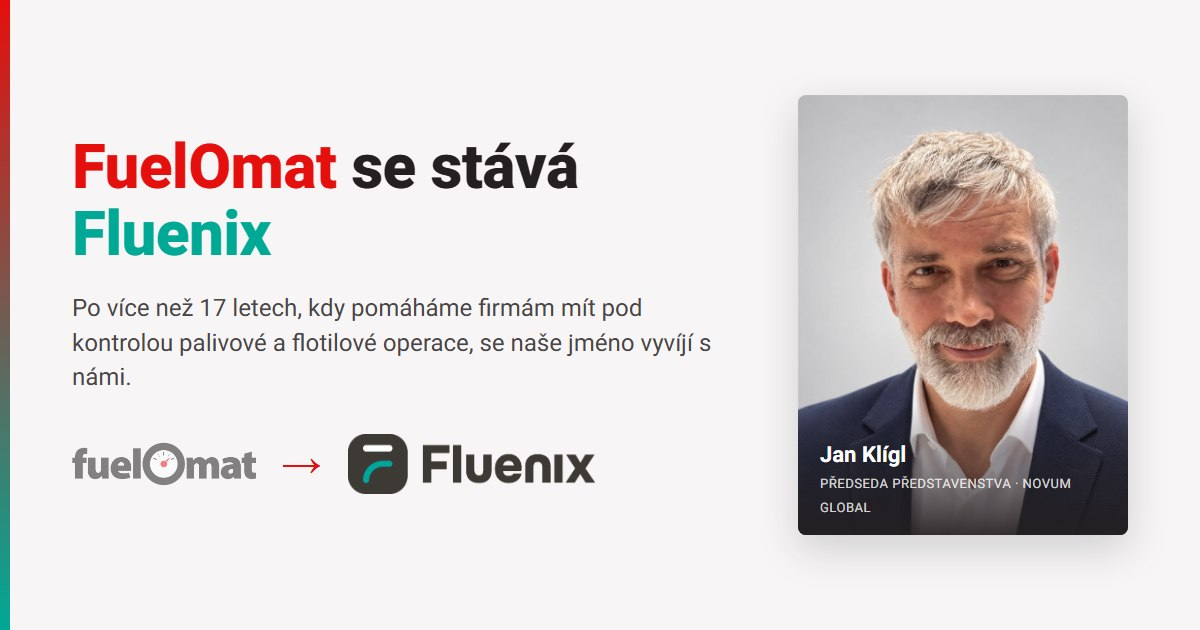
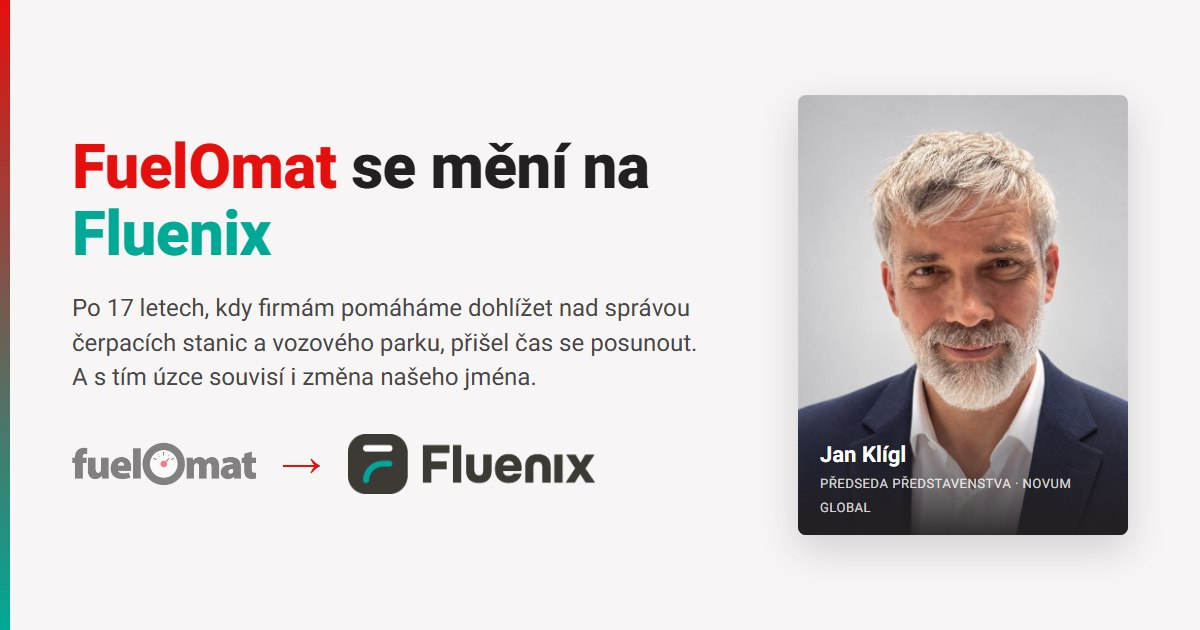
Landing page CS: Czech copy corrections from Lucie Holicka; OG image updated

Changed region(s): [[0.0617, 0.4524, 0.5858, 0.6333], [0.3392, 0.2111, 0.555, 0.3016]]

diff --git a/formerly-fuelomat-old-cs.html b/formerly-fuelomat-old-cs.html
@@ -3,11 +3,11 @@
 <head>
 <meta charset="utf-8">
 <meta name="viewport" content="width=device-width, initial-scale=1">
-<title>FuelOmat se stává Fluenix</title>
+<title>FuelOmat se mění na Fluenix</title>
 <meta name="description" content="Po 17 letech budování pod značkou FuelOmat představujeme naši novou identitu: Fluenix. Stejný tým, stejná technologie, širší vize.">
 <meta property="og:type" content="website">
 <meta property="og:site_name" content="Fluenix">
-<meta property="og:title" content="FuelOmat se stává Fluenix">
+<meta property="og:title" content="FuelOmat se mění na Fluenix">
 <meta property="og:description" content="Po 17 letech budování pod značkou FuelOmat představujeme naši novou identitu: Fluenix. Stejný tým, stejná technologie, širší vize.">
 <meta property="og:url" content="https://galijohn.github.io/fluenix-rebrand/formerly-fuelomat-old-cs.html">
 <meta property="og:image" content="https://galijohn.github.io/fluenix-rebrand/og-formerly-fuelomat-cs.jpg">
@@ -261,8 +261,8 @@
   <div class="wrap">
     <div class="hero-grid">
       <div class="hero-text">
-        <h1><span class="old-brand">FuelOmat</span> se stává <span class="accent">Fluenix</span></h1>
-        <p class="hero-lede">Po více než 17 letech, kdy pomáháme firmám mít pod kontrolou vše kolem palivových a flotilových operací, se naše jméno vyvíjí s námi.</p>
+        <h1><span class="old-brand">FuelOmat</span> se mění na <span class="accent">Fluenix</span></h1>
+        <p class="hero-lede">Po 17 letech, kdy firmám pomáháme dohlížet nad správou čerpacích stanic a vozového parku, přišel čas se posunout. A s tím úzce souvisí i změna našeho jména.</p>
         <div class="brand-transition">
           <div class="row">
             <img src="fuelomat-logo.png" alt="FuelOmat" class="old-logo">
@@ -271,7 +271,7 @@
               <img src="fluenix-logo.png" alt="Fluenix — pokračovat na nový web" class="new-logo">
             </a>
           </div>
-          <div class="caption">Klikněte na <a href="https://fluenix.eu">logo Fluenix</a> pro přechod na nový web.</div>
+          <div class="caption">Klikněte na <a href="https://fluenix.eu">logo Fluenix</a> pro přechod na nový web</div>
         </div>
       </div>
       <div class="hero-photo">
@@ -288,18 +288,18 @@
 <!-- WHY -->
 <section class="why">
   <div class="wrap">
-    <p class="highlight">Proč se <span class="b-old">FuelOmat</span> stává <span class="b-new">Fluenix</span>.</p>
-    <p>Více než 17 let pomáháme firmám mít pod kontrolou vše, co se děje kolem jejich palivových a flotilových operací. To, co začalo jako správa paliva, se rozrostlo do něčeho mnohem většího. Dnes naše technologie propojuje a automatizuje kritickou infrastrukturu napříč doly, staveništi, letišti, farmami i flotilovým provozem — od výdeje paliva a identifikace vozidel po řízení přístupu, elektrické nabíjení a další. Rozrostli jsme se z Evropy do Afriky a dnes také do Asie a dalších trhů po celém světě.</p>
-    <p class="highlight">Naše jméno se muselo vyvinout s námi.</p>
+    <p class="highlight">Proč se <span class="b-old">FuelOmat</span> mění na <span class="b-new">Fluenix</span></p>
+    <p>Na trhu se pohybujeme již více než 17 let. To, co začalo jako systém pro správu paliva, se vyvinulo v mnohem rozsáhlejší řešení. Naše technologie dnes propojují klíčovou infrastrukturu v těžebním průmyslu, stavebnictví, na letištích, v zemědělství i při běžném provozu – od evidence pohonných hmot přes autorizované tankování až po snadný přístup k datům. Postupem času jsme z Evropy expandovali do Afriky, Asie a dalších zemí po celém světě.</p>
+    <p class="highlight">Naše jméno roste a my rosteme s ním.</p>
   </div>
 </section>
 
 <!-- BRIDGE -->
 <section class="bridge">
   <div class="wrap">
-    <p><span class="b-old">FuelOmat</span> popisoval, kde jsme začali.</p>
-    <p><span class="b-new">Fluenix</span> popisuje, kam směřujeme.</p>
-    <p class="wide">Stejní lidé. Stejná technologie. Stejný závazek, kterému naši zákazníci důvěřují 17 let.</p>
+    <p><span class="b-old">FuelOmat</span> byl jen začátek.</p>
+    <p><span class="b-new">Fluenix</span> je budoucnost.</p>
+    <p class="wide">Technologie se vyvíjí, ale to důležité zůstává. Stejní lidé. Stejné zapálení. Stejná ochota pomoci.</p>
   </div>
 </section>
 
@@ -307,19 +307,19 @@
 <section class="brings">
   <div class="wrap">
     <div class="brings-head">
-      <span class="eyebrow">Co nové jméno přináší</span>
-      <h2>Nové jméno přichází s novou technologií</h2>
+      <span class="eyebrow">Co Vám změna přinese</span>
+      <h2>S novým jménem přichází nová technologie</h2>
     </div>
 
     <div class="bring-row">
       <div class="bring-copy">
-        <h3>Nový ovládací displej</h3>
+        <h3>Nový moderní displej</h3>
         <ul>
-          <li>Aktuální objem, cena a typ paliva na první pohled</li>
+          <li>Aktuální objem, cena a typ paliva snadno k dispozici</li>
           <li>RFID ověření řidiče i vozidla</li>
-          <li>Objemové limity pro každou flotilu vynucené přímo u čerpadla</li>
-          <li>Záznam tachometru a motohodin u každé transakce</li>
-          <li>Bezobslužný provoz 24/7</li>
+          <li>Možnost nastavit objemové limity pro každé vozidlo</li>
+          <li>Pohodlný způsob zadání kilometrů/motohodin u každé transakce</li>
+          <li>K dispozici 24/7</li>
         </ul>
       </div>
       <div class="bring-visual">
@@ -329,13 +329,13 @@
 
     <div class="bring-row">
       <div class="bring-copy">
-        <h3>My Fluenix App</h3>
+        <h3>Aplikace My Fluenix</h3>
         <ul>
-          <li>Živá mapa všech stanic a stavu nádrží</li>
-          <li>Vzdálené tankování a stav stojanů v reálném čase</li>
-          <li>Litry a náklady každého vozidla za libovolné období</li>
+          <li>Aktuální mapa všech Vašich čerpacích stanic a stavů nádrží</li>
+          <li>Vzdálené spouštění tankování a monitoring stojanů v reálném čase</li>
+          <li>Provozní náklady každého vozidla za libovolné období</li>
           <li>Upozornění na nízký stav nádrže a závoz jedním klikem</li>
-          <li>Servisní požadavky sledované od objednávky po vyřešení</li>
+          <li>Sledování servisních požadavků od objednávky po vyřešení</li>
         </ul>
       </div>
       <div class="bring-visual">
@@ -346,13 +346,13 @@
 
     <div class="bring-row">
       <div class="bring-copy">
-        <h3>Živá kamera — Online monitoring</h3>
+        <h3>Živá kamera – online monitoring</h3>
         <ul>
-          <li>Živý online pohled na každý stojan — ať jste kdekoli</li>
-          <li>Historie tankování, nově i na videu</li>
-          <li>Dlouhodobý záznam, vždy po ruce</li>
-          <li>Spory rozhodne video, ne dohady</li>
-          <li>Zabudovaná přímo v řídicí jednotce — nic dalšího k instalaci</li>
+          <li>Online pohled na každý stojan – ať jste kdekoli</li>
+          <li>Záznamy tankování nově i na videu</li>
+          <li>Dlouhodobá evidence vždy po ruce</li>
+          <li>Jednoznačný důkaz v případě nesrovnalostí</li>
+          <li>Zabudovaná přímo v terminálu – žádná další instalace</li>
         </ul>
       </div>
       <div class="bring-visual">
@@ -366,8 +366,8 @@
 <!-- ZÁVĚR -->
 <section class="closing">
   <div class="wrap">
-    <div class="tagline"><span class="accent">Fluenix</span> — Automatizujte provoz bezpečně.</div>
-    <p>Toto není jen nové jméno. Je to další kapitola naší cesty.</p>
+    <div class="tagline"><span class="accent">Fluenix</span> – technologie pro automatizaci bez narušení provozu</div>
+    <p>Toto není jen nové jméno, je to další kapitola naší cesty.</p>
     <div class="signature">
       <div class="name">Jan Klígl</div>
       <div class="role">Předseda představenstva · Novum Global a.s.</div>
@@ -378,7 +378,7 @@
 <!-- FOOTER -->
 <footer>
   <div class="wrap">
-    <div>© 2026 Novum Global a.s. · Fuelomat.cz se stává Fluenix<br><span class="legal">28. pluku 483/11, 101 00 Praha 10 · IČO 14893126 · DIČ CZ14893126</span></div>
+    <div>© 2026 Novum Global a.s. · Fuelomat.cz se mění na Fluenix<br><span class="legal">28. pluku 483/11, 101 00 Praha 10 · IČO 14893126 · DIČ CZ14893126</span></div>
     <div>
       <a href="https://fluenix.eu">fluenix.eu</a>
     </div>
